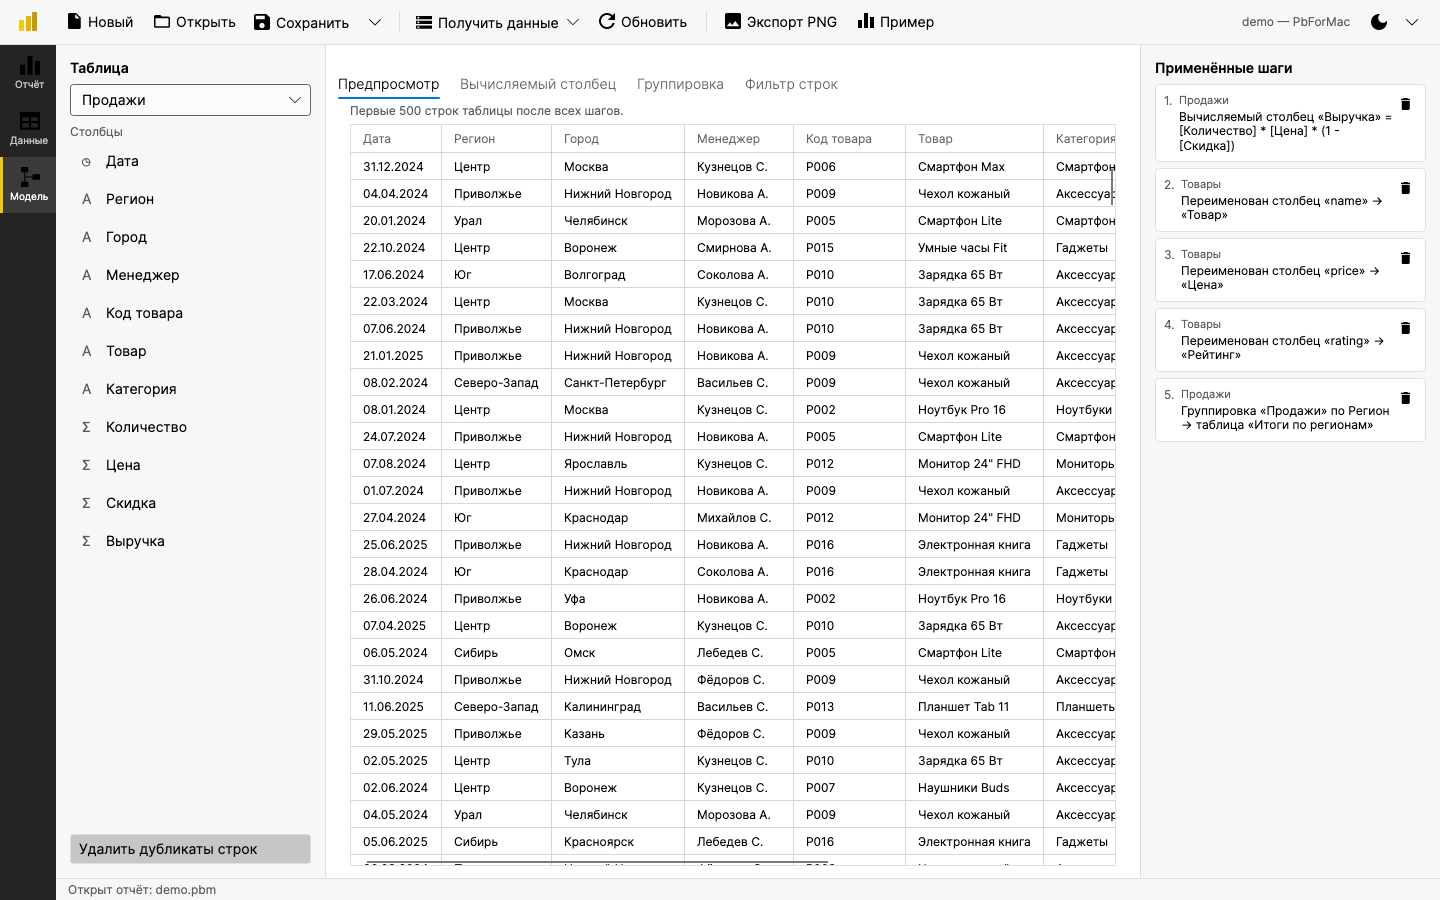
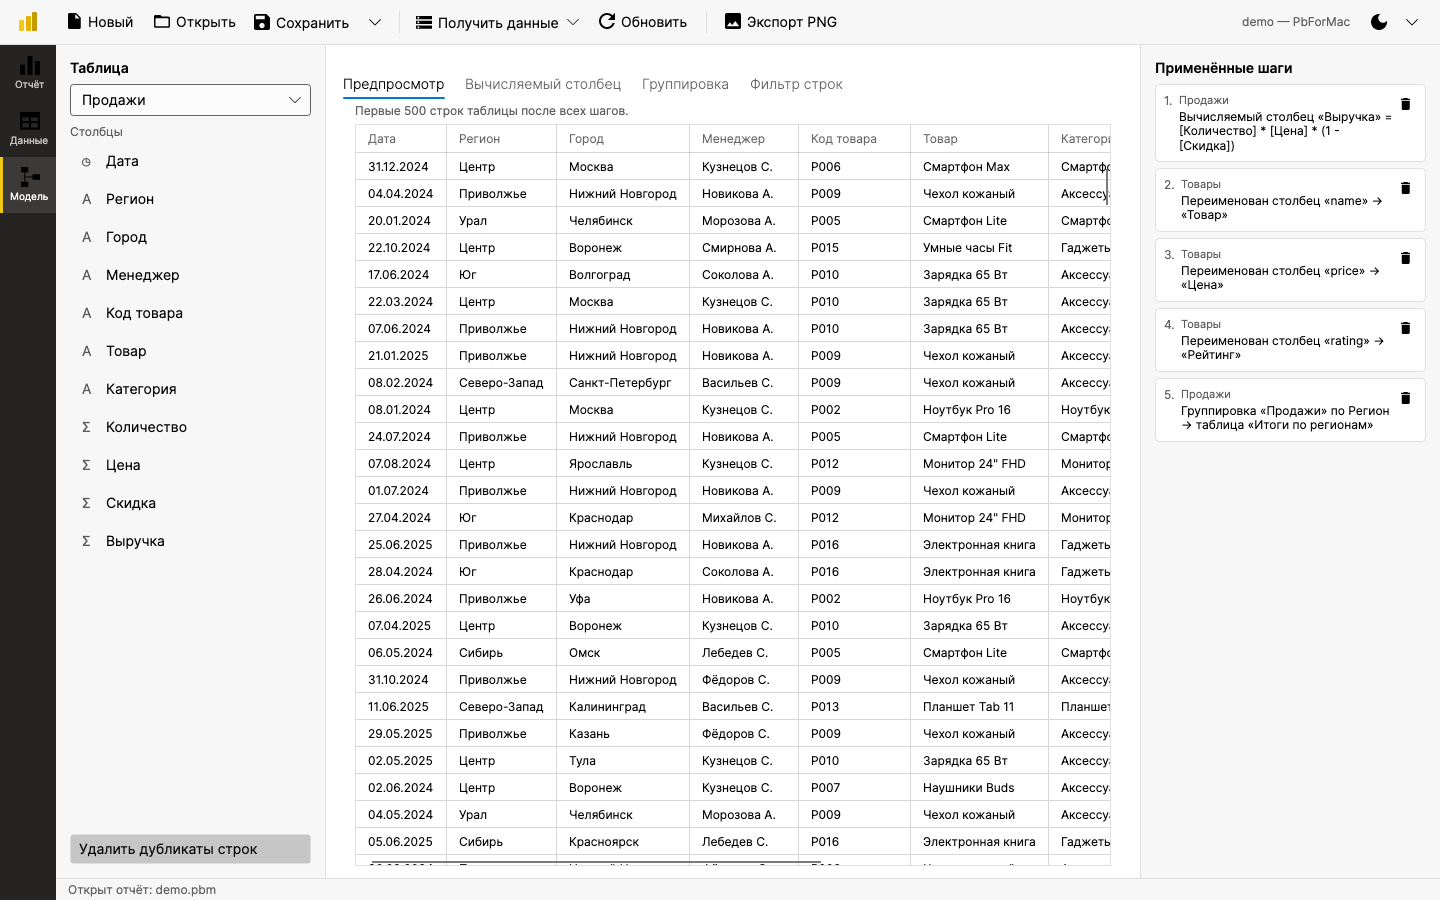
Document resizable panels and sample access, refresh screenshots

diff --git a/README.md b/README.md
@@ -45,6 +45,8 @@
 - **Фильтры страницы и срезы** перекрёстно фильтруют все визуалы соответствующей таблицы.
 - **Отчёты `.pbm`** (JSON) хранят источники, шаги, визуалы и фильтры; пути к данным сохраняются относительно отчёта, поэтому папку можно переносить.
 - Кнопка **«Обновить»** перечитывает все источники с диска, **экспорт дашборда в PNG**, светлая и тёмная тема (переключатель в верхней панели, выбор запоминается), меню macOS и горячие клавиши.
+- Ширину боковых панелей можно менять, перетаскивая границу между ними. Перед закрытием текущего отчёта
+  (новый отчёт, открытие другого) приложение спрашивает подтверждение, чтобы не потерять несохранённую работу.
 
 | Данные | Модель |
 |---|---|
@@ -195,7 +197,8 @@ dotnet run --project src/PbForMac
 
 ## Быстрый старт
 
-Запустите PbForMac и нажмите **«Пример»** на панели инструментов. Откроется демо-отчёт `samples/demo.pbm`,
+Запустите PbForMac и на пустом отчёте нажмите **«Открыть пример»** (на macOS также меню **Файл → Открыть пример**).
+Откроется демо-отчёт `samples/demo.pbm`,
 построенный на данных всех пяти форматов. Отчёт или файл данных можно открыть и из командной строки:
 `dotnet run --project src/PbForMac -- samples/demo.pbm` (или `pbformac файл.pbm` после установки на Linux).
 
